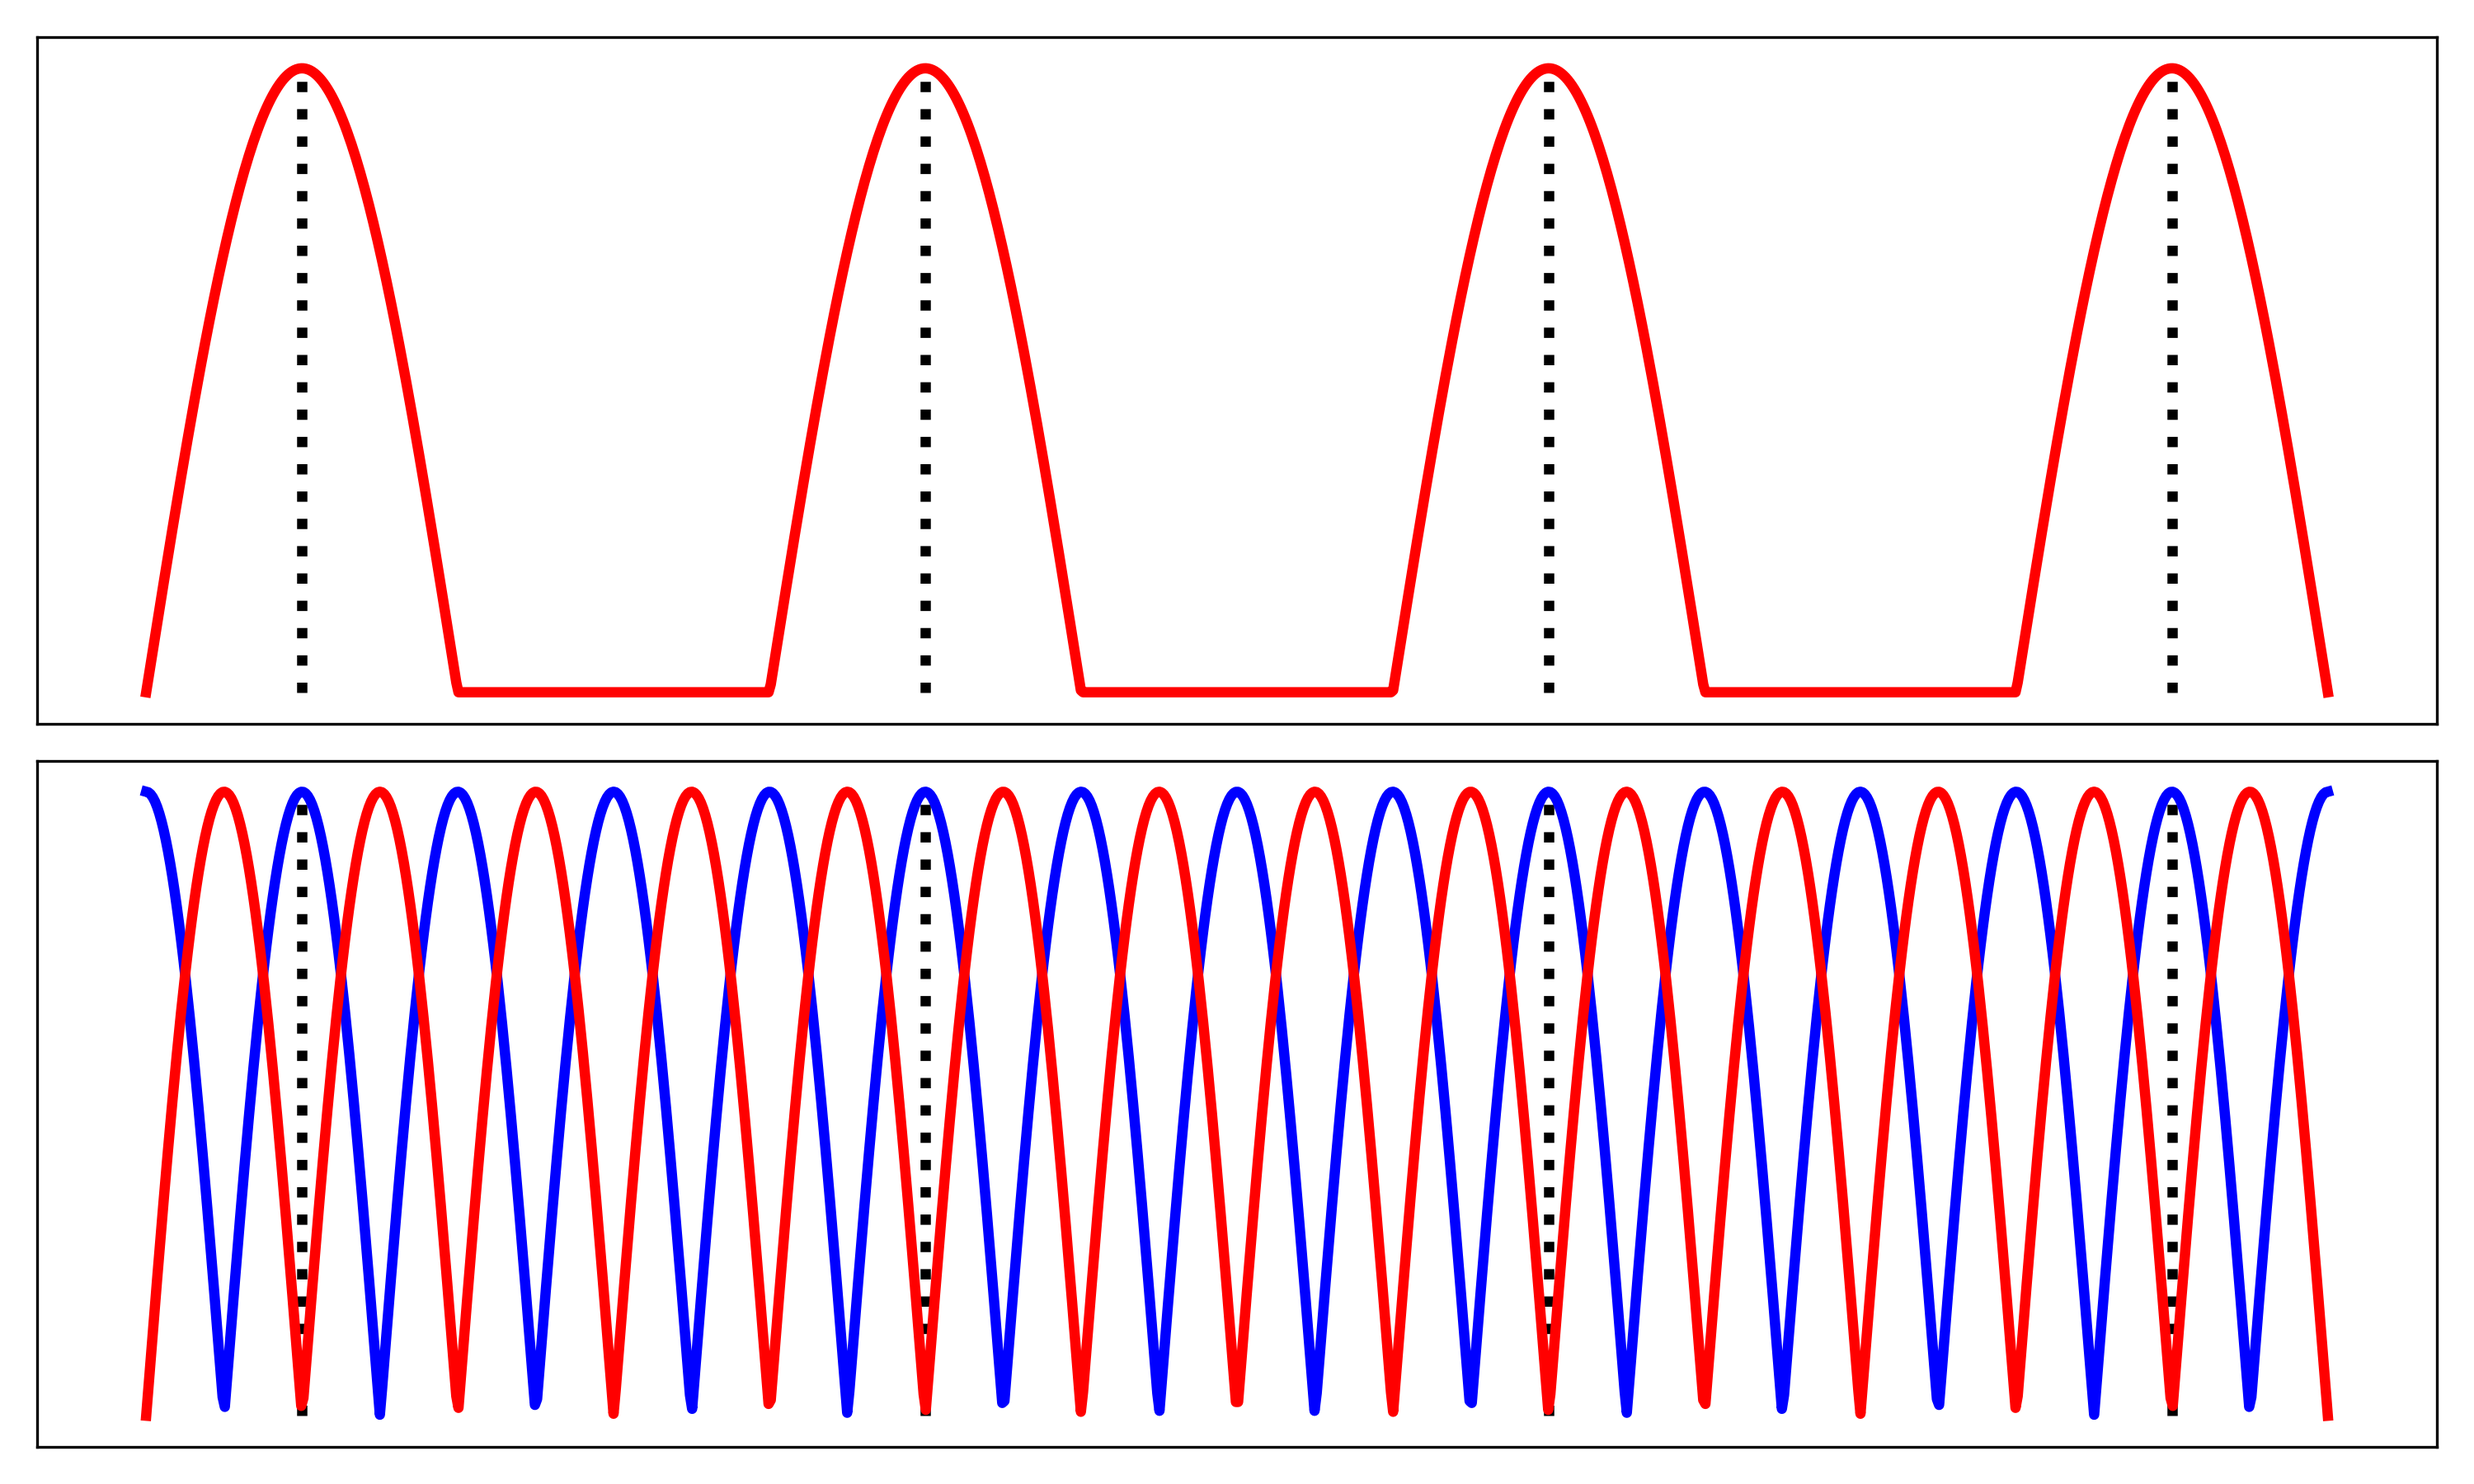
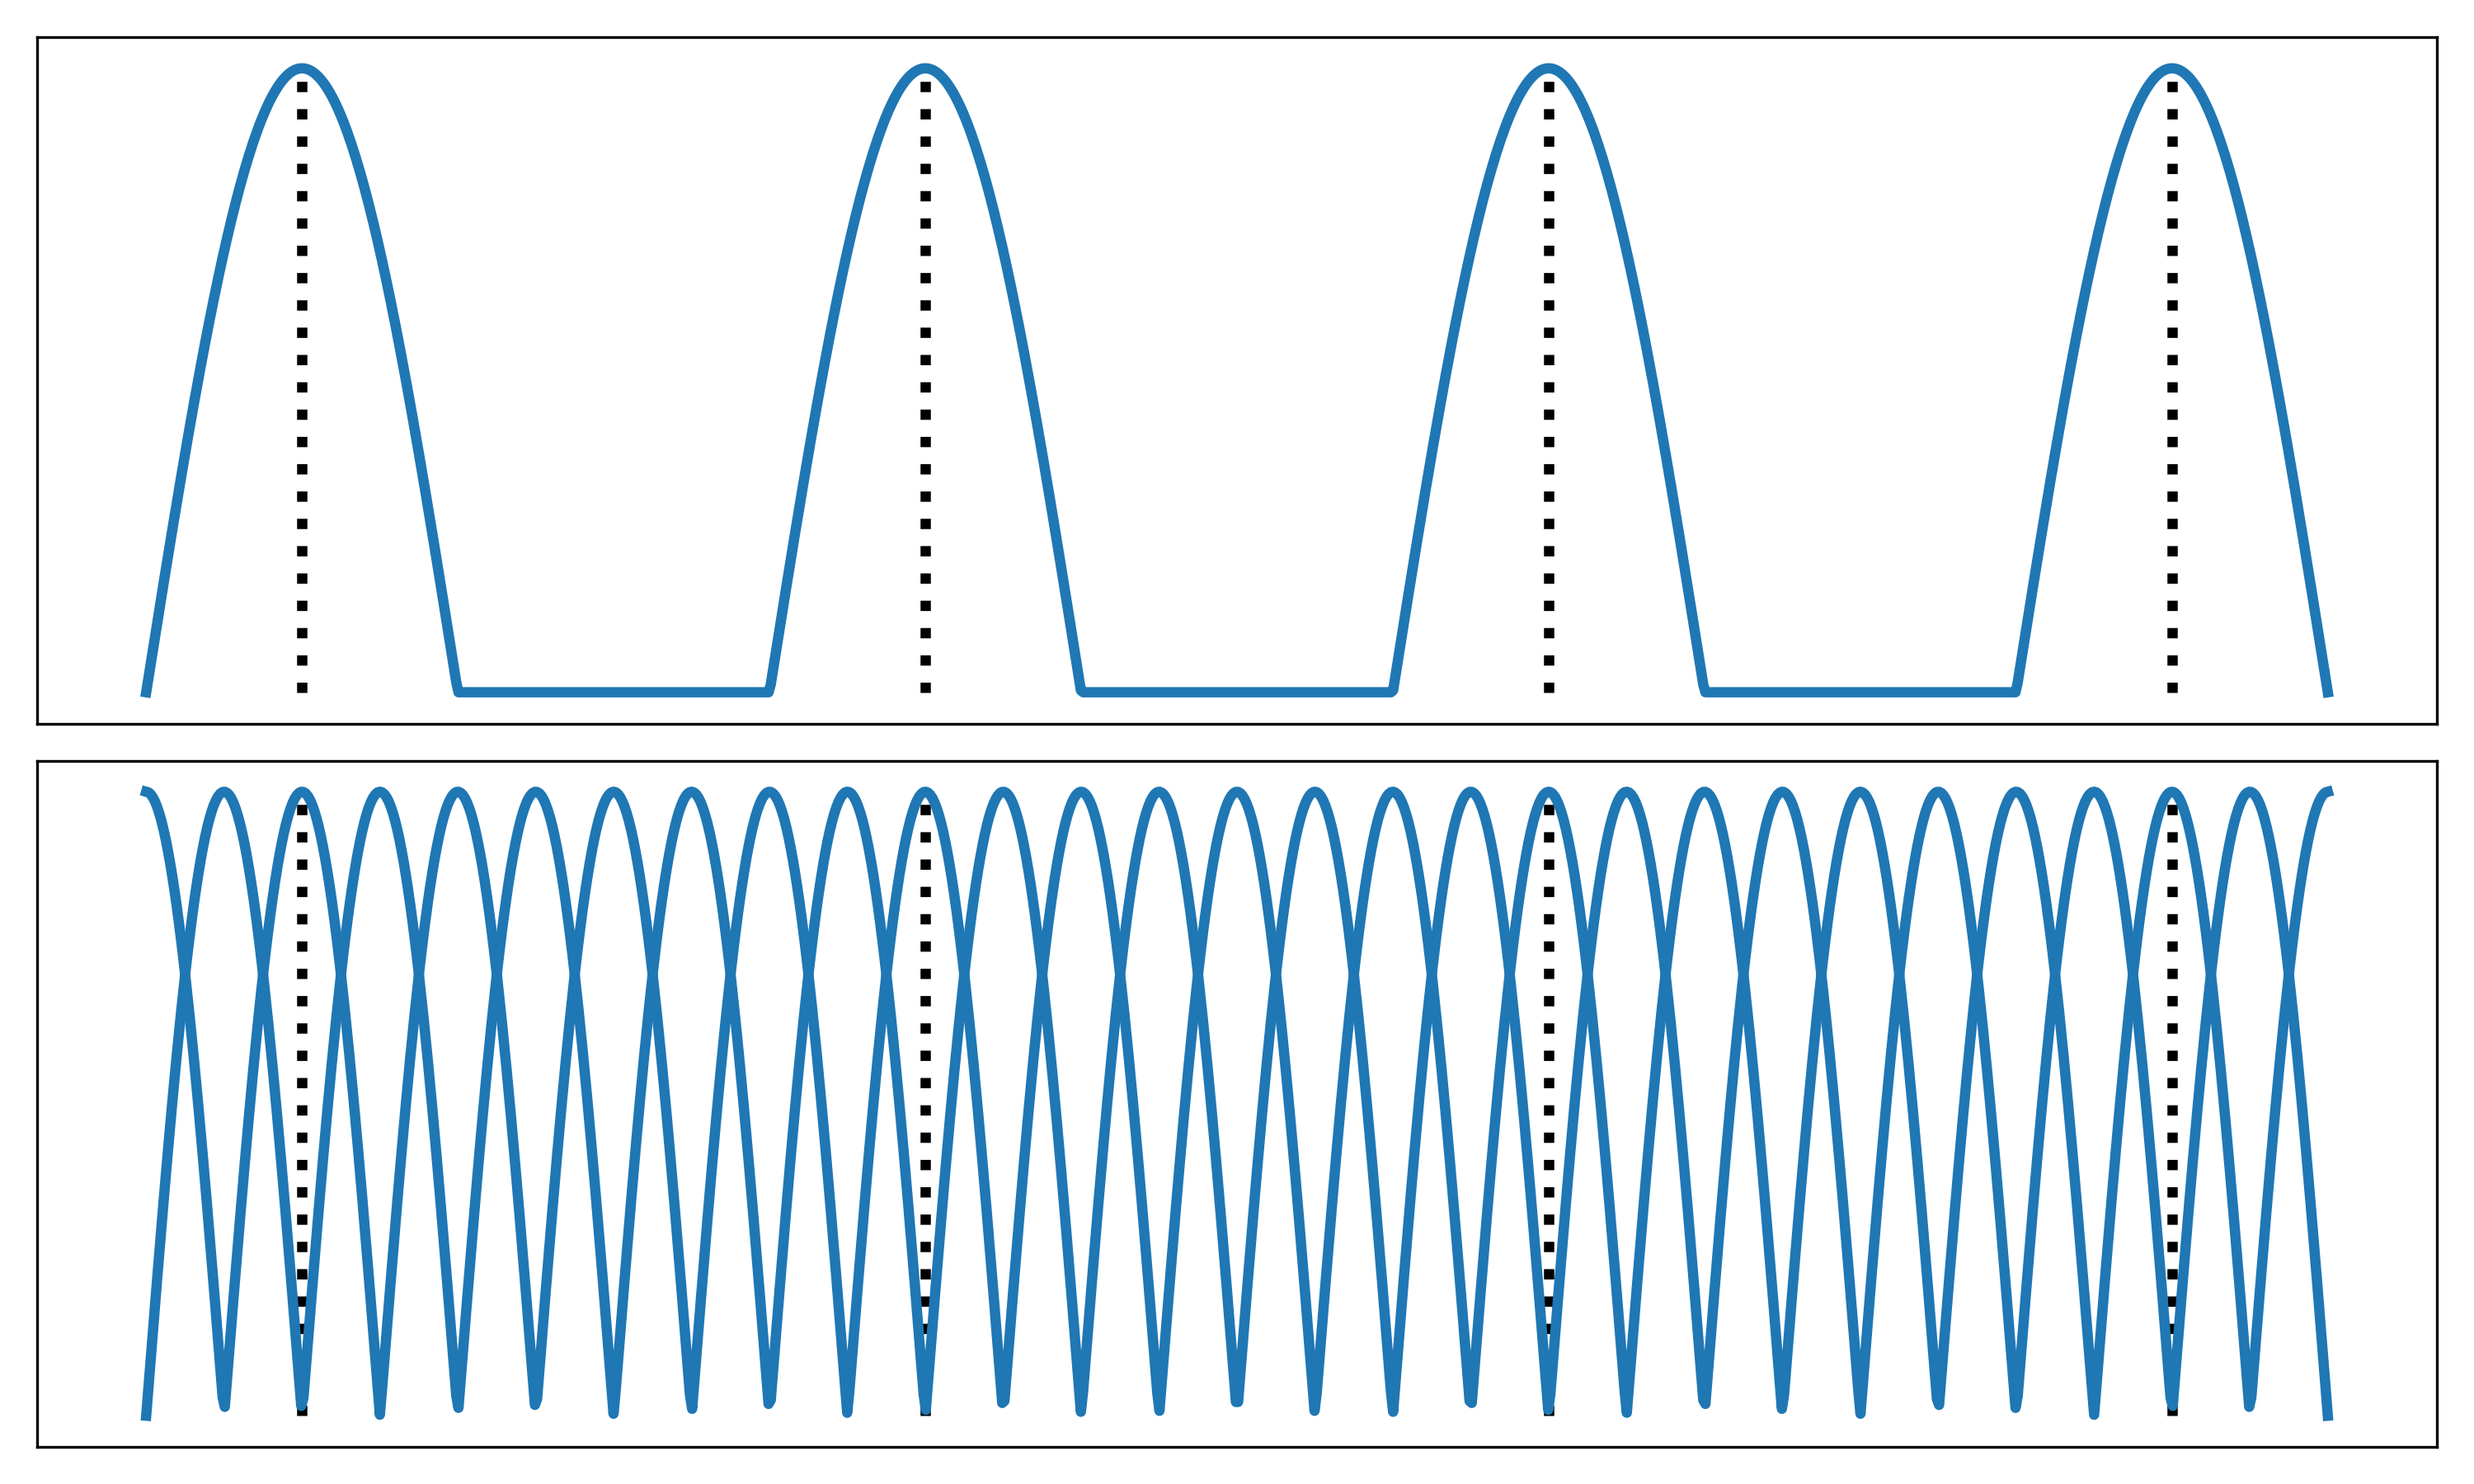
docs: update

diff --git a/docs/final-slide/scripts/fdm-ofdm.py b/docs/final-slide/scripts/fdm-ofdm.py
@@ -39,7 +39,7 @@ ax1.vlines(
     linewidth=3,
     linestyle=":",
 )
-ax1.plot(x, y_fig1, color="red", linewidth=3)
+ax1.plot(x, y_fig1, color="C0", linewidth=3)
 ax1.set_yticks([])
 ax1.grid(False)
 
@@ -56,8 +56,8 @@ ax2.vlines(
     linewidth=3,
     linestyle=":",
 )
-ax2.plot(x, y_fig2_cos, color="blue", linewidth=3)
-ax2.plot(x, y_fig2_sin, color="red", linewidth=3)
+ax2.plot(x, y_fig2_cos, color="C0", linewidth=3)
+ax2.plot(x, y_fig2_sin, color="C0", linewidth=3)
 ax2.set_xticks([])
 ax2.set_yticks([])
 
